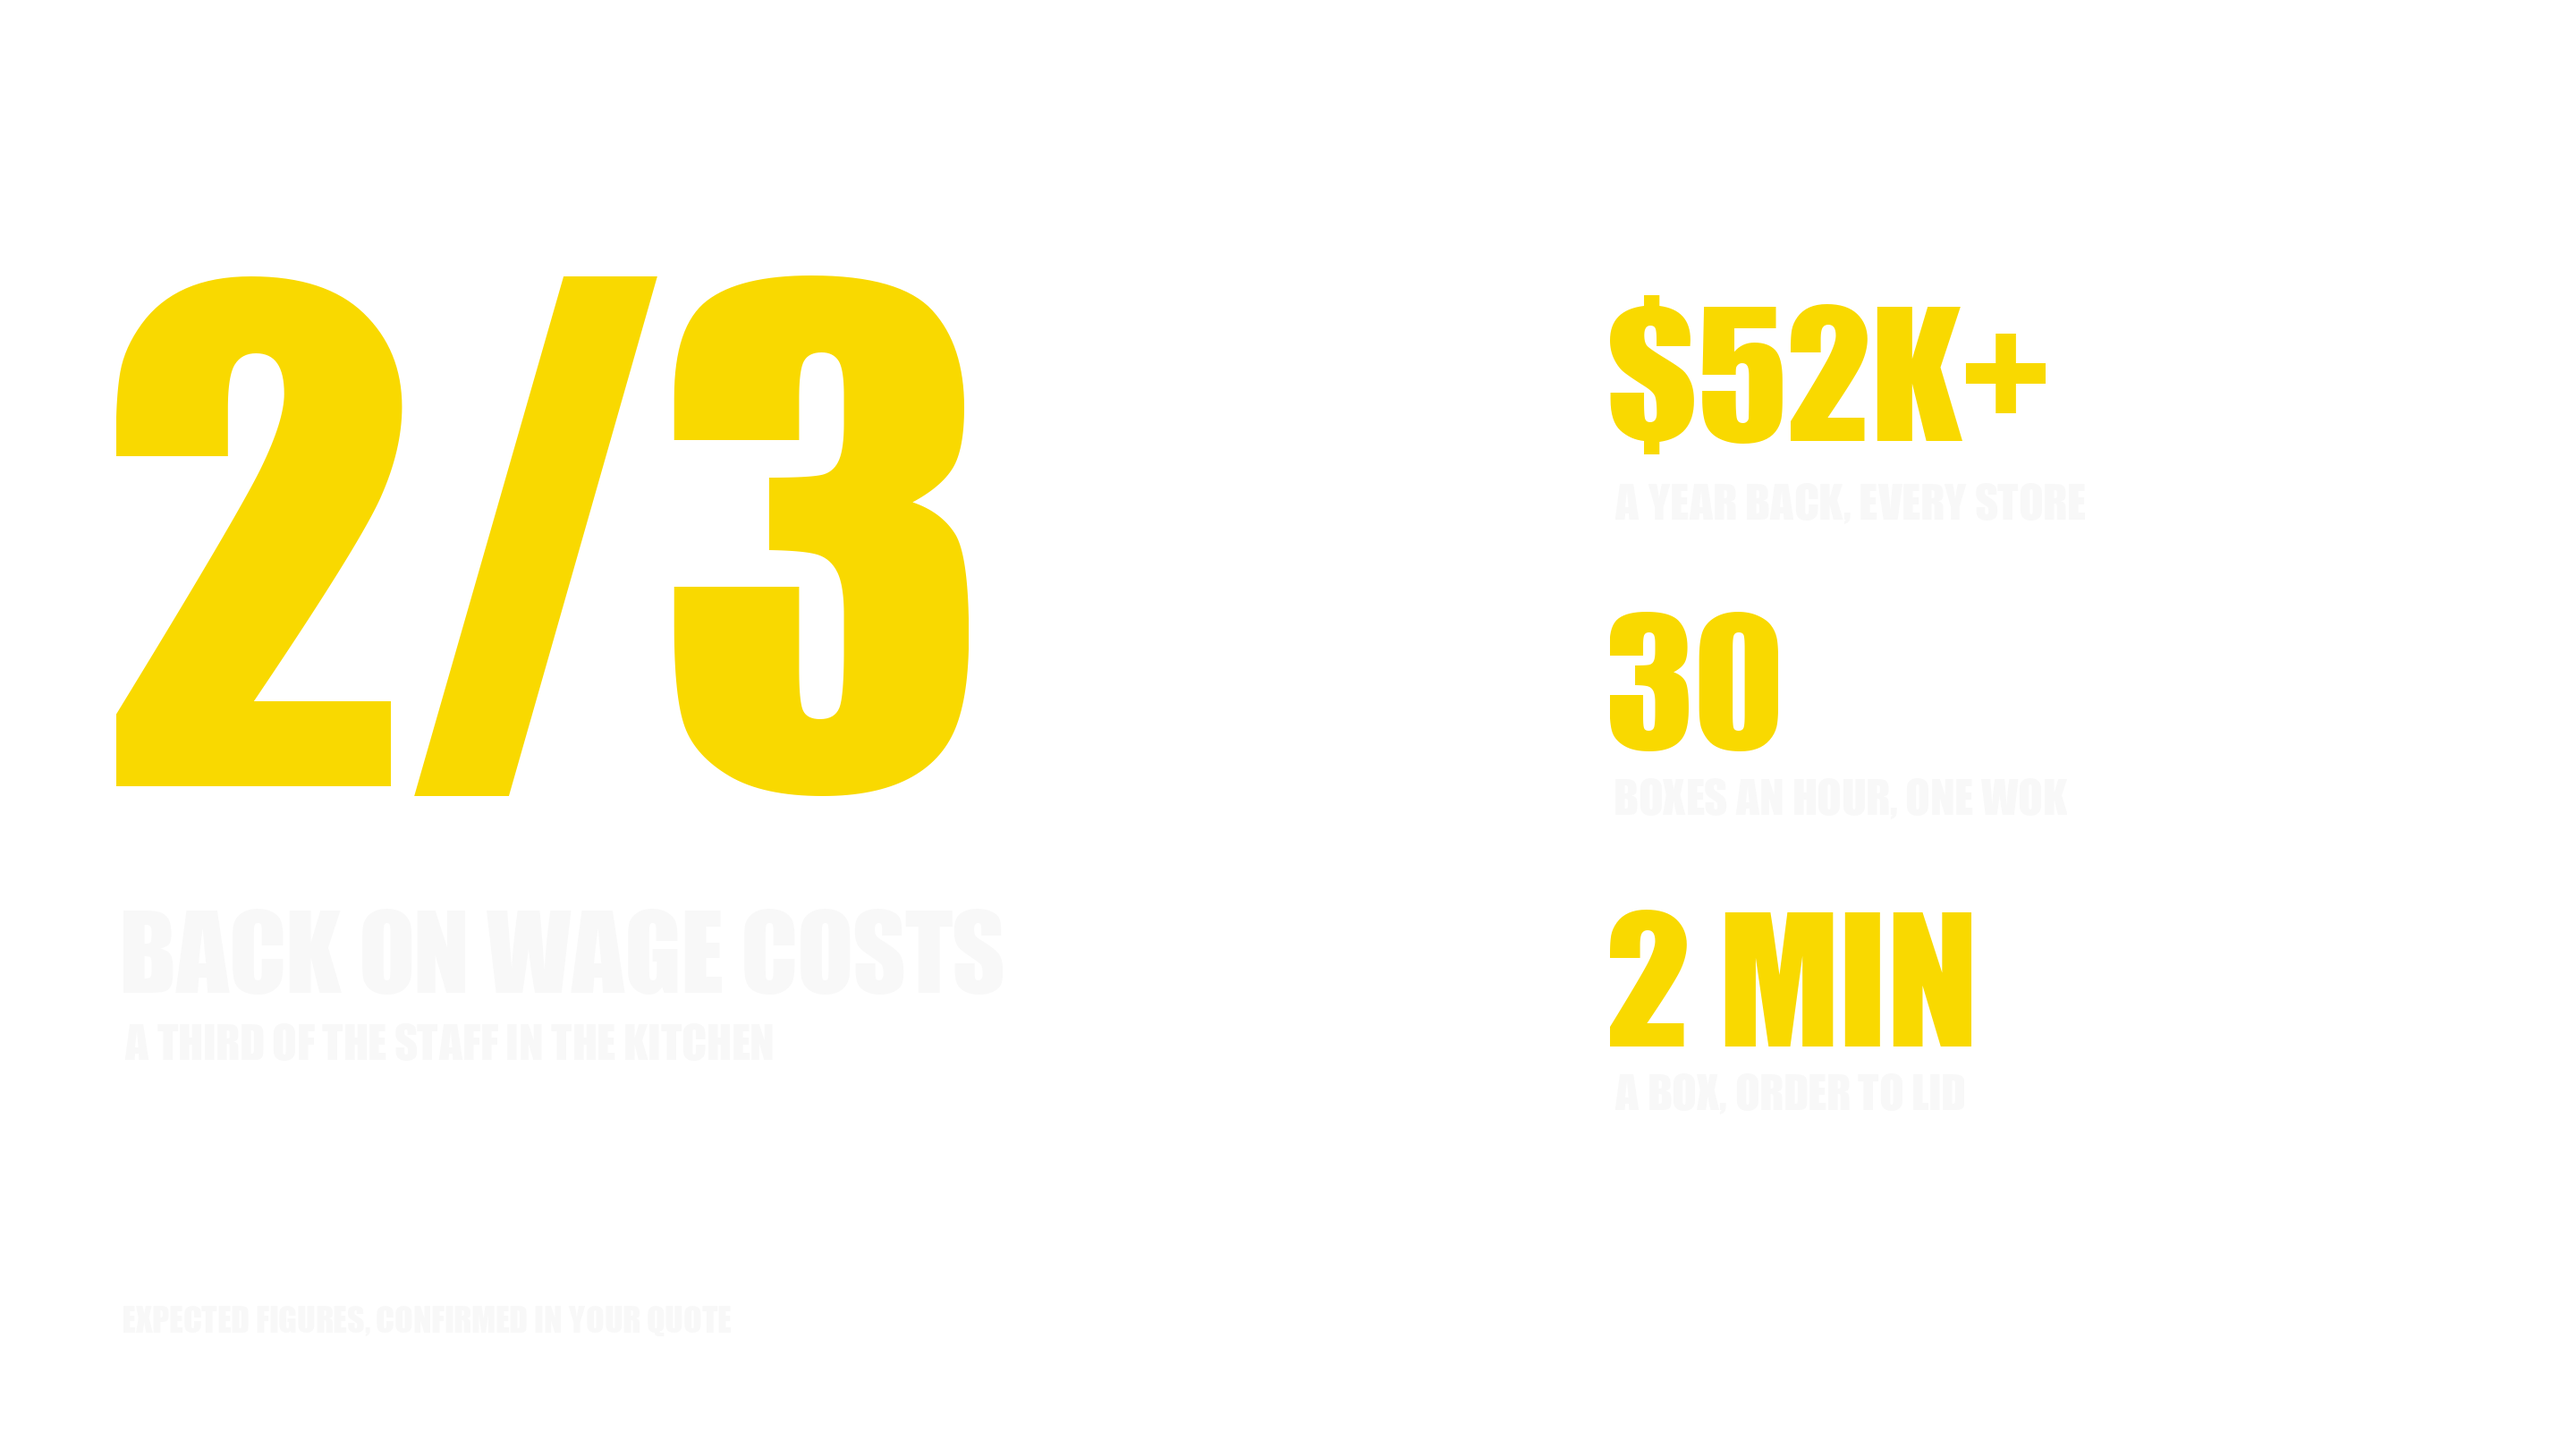
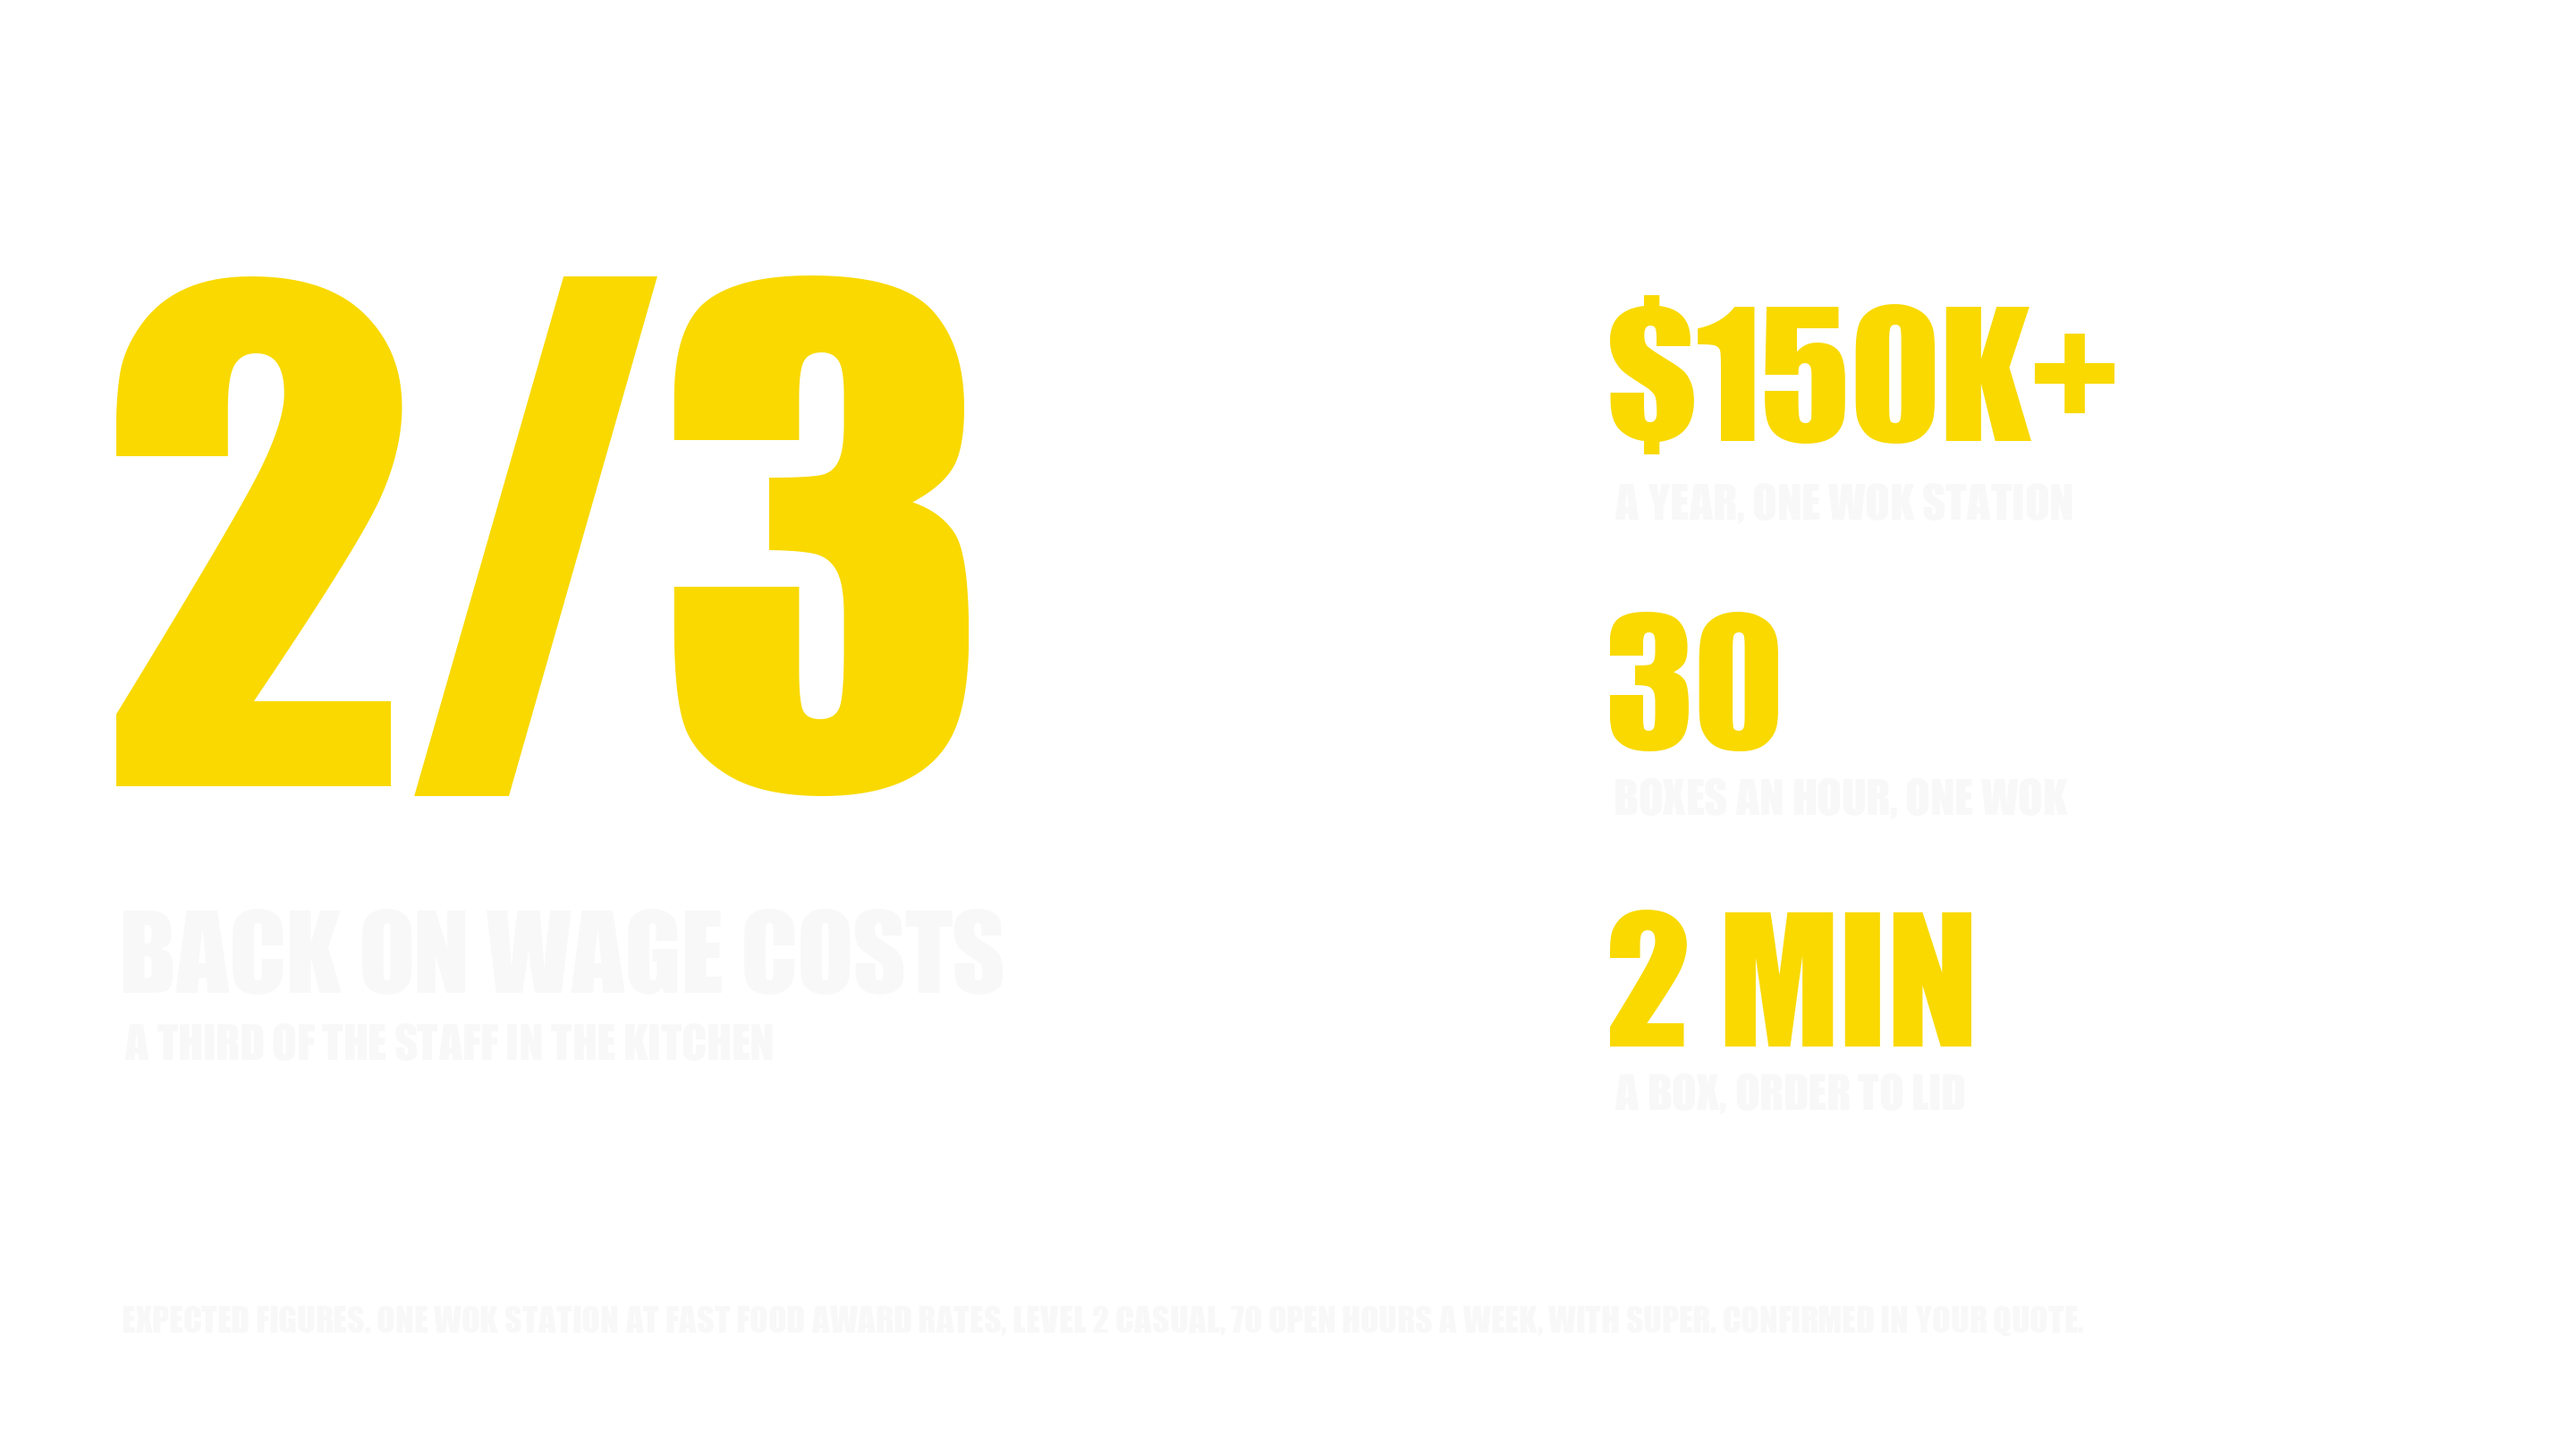
Concept Eight deck: one wok station is $150K+ a year, not $52K
Jesse: it is way more than 52K a year. $52K was one cook's base pay; a
wok station staffed every open hour costs about $158,600 a year at the
2026/27 Fast Food award (Level 2 casual, weekend rates, 70 open hours a
week, 12% super), before public holidays and on-costs. The working is
in the poster's small print and in c8_posters.py.

Changed region(s): [[0.6562, 0.216, 0.8438, 0.3086]]

diff --git a/src/concept-eight-slides.html b/src/concept-eight-slides.html
@@ -202,7 +202,7 @@
      each comes from). -->
 <section class="stage" id="s{{i}}" aria-label="Slide {{i}}. The numbers">
   <div class="slide night"><div class="in full poster foot-ink">
-    <div class="plate"><img src="{{root}}img/deck/concept-eight/poster-numbers.jpg" width="2880" height="1620" alt="On Noodle Box red, in Wok in a Box yellow: 2/3 back on wage costs, a third of the staff in the kitchen; $52K+ a year back, every store; 30 boxes an hour, one wok; 2 min a box, order to lid. Expected figures, confirmed in your quote"><img class="words r" src="{{root}}img/deck/concept-eight/poster-numbers-words.png" width="2880" height="1620" alt=""></div>
+    <div class="plate"><img src="{{root}}img/deck/concept-eight/poster-numbers.jpg" width="2880" height="1620" alt="On Noodle Box red, in Wok in a Box yellow: 2/3 back on wage costs, a third of the staff in the kitchen; $150K+ a year, one wok station; 30 boxes an hour, one wok; 2 min a box, order to lid. Expected figures: one wok station at fast food award rates, Level 2 casual, 70 open hours a week, with super; confirmed in your quote"><img class="words r" src="{{root}}img/deck/concept-eight/poster-numbers-words.png" width="2880" height="1620" alt=""></div>
     <div class="foot"><p></p><p>{{n}}</p></div>
   </div></div>
 </section>

diff --git a/deck/concept-eight/index.html b/deck/concept-eight/index.html
@@ -699,7 +699,7 @@
      each comes from). -->
 <section class="stage" id="s9" aria-label="Slide 9. The numbers">
   <div class="slide night"><div class="in full poster foot-ink">
-    <div class="plate"><img src="../../img/deck/concept-eight/poster-numbers.jpg" width="2880" height="1620" alt="On Noodle Box red, in Wok in a Box yellow: 2/3 back on wage costs, a third of the staff in the kitchen; $52K+ a year back, every store; 30 boxes an hour, one wok; 2 min a box, order to lid. Expected figures, confirmed in your quote"><img class="words r" src="../../img/deck/concept-eight/poster-numbers-words.png" width="2880" height="1620" alt=""></div>
+    <div class="plate"><img src="../../img/deck/concept-eight/poster-numbers.jpg" width="2880" height="1620" alt="On Noodle Box red, in Wok in a Box yellow: 2/3 back on wage costs, a third of the staff in the kitchen; $150K+ a year, one wok station; 30 boxes an hour, one wok; 2 min a box, order to lid. Expected figures: one wok station at fast food award rates, Level 2 casual, 70 open hours a week, with super; confirmed in your quote"><img class="words r" src="../../img/deck/concept-eight/poster-numbers-words.png" width="2880" height="1620" alt=""></div>
     <div class="foot"><p></p><p>09</p></div>
   </div></div>
 </section>
